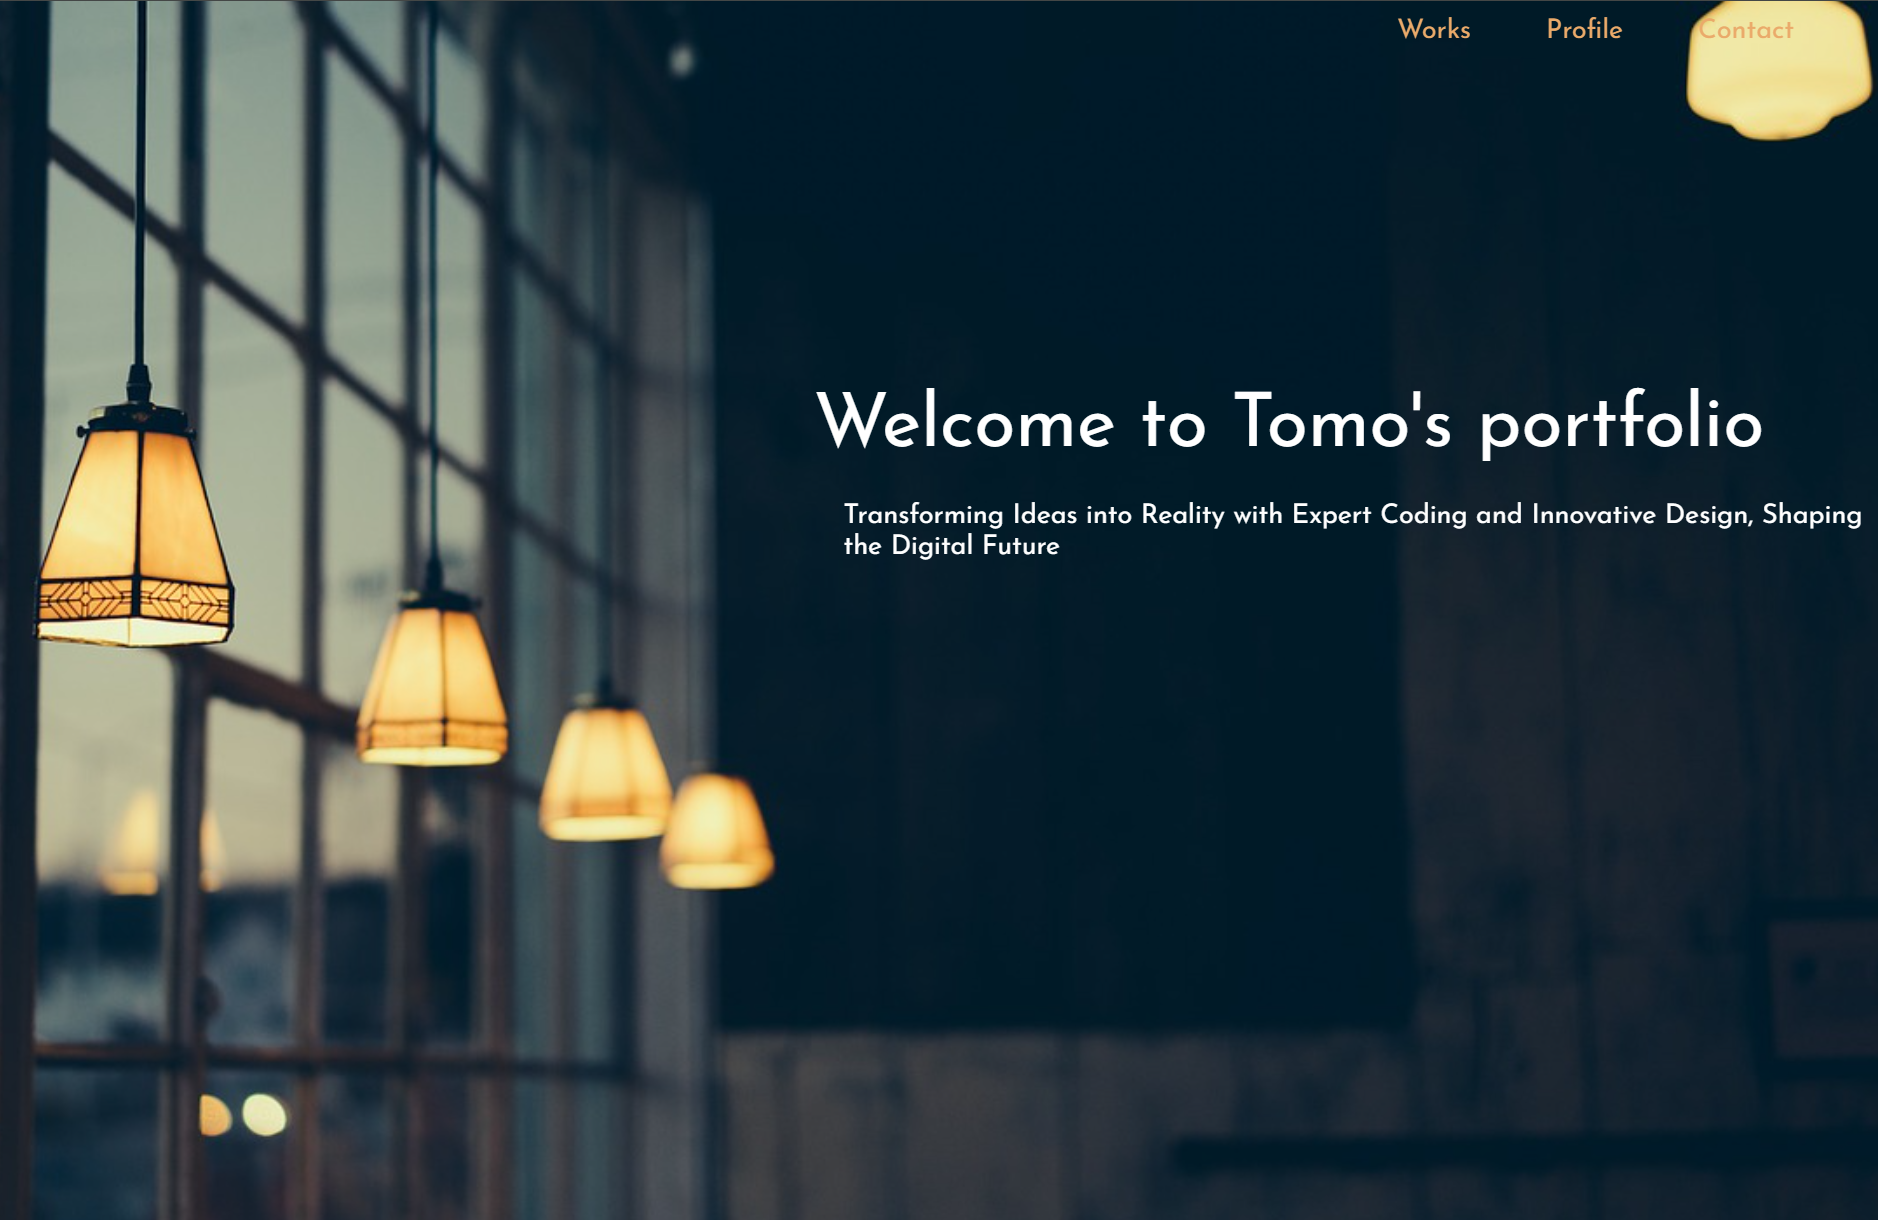
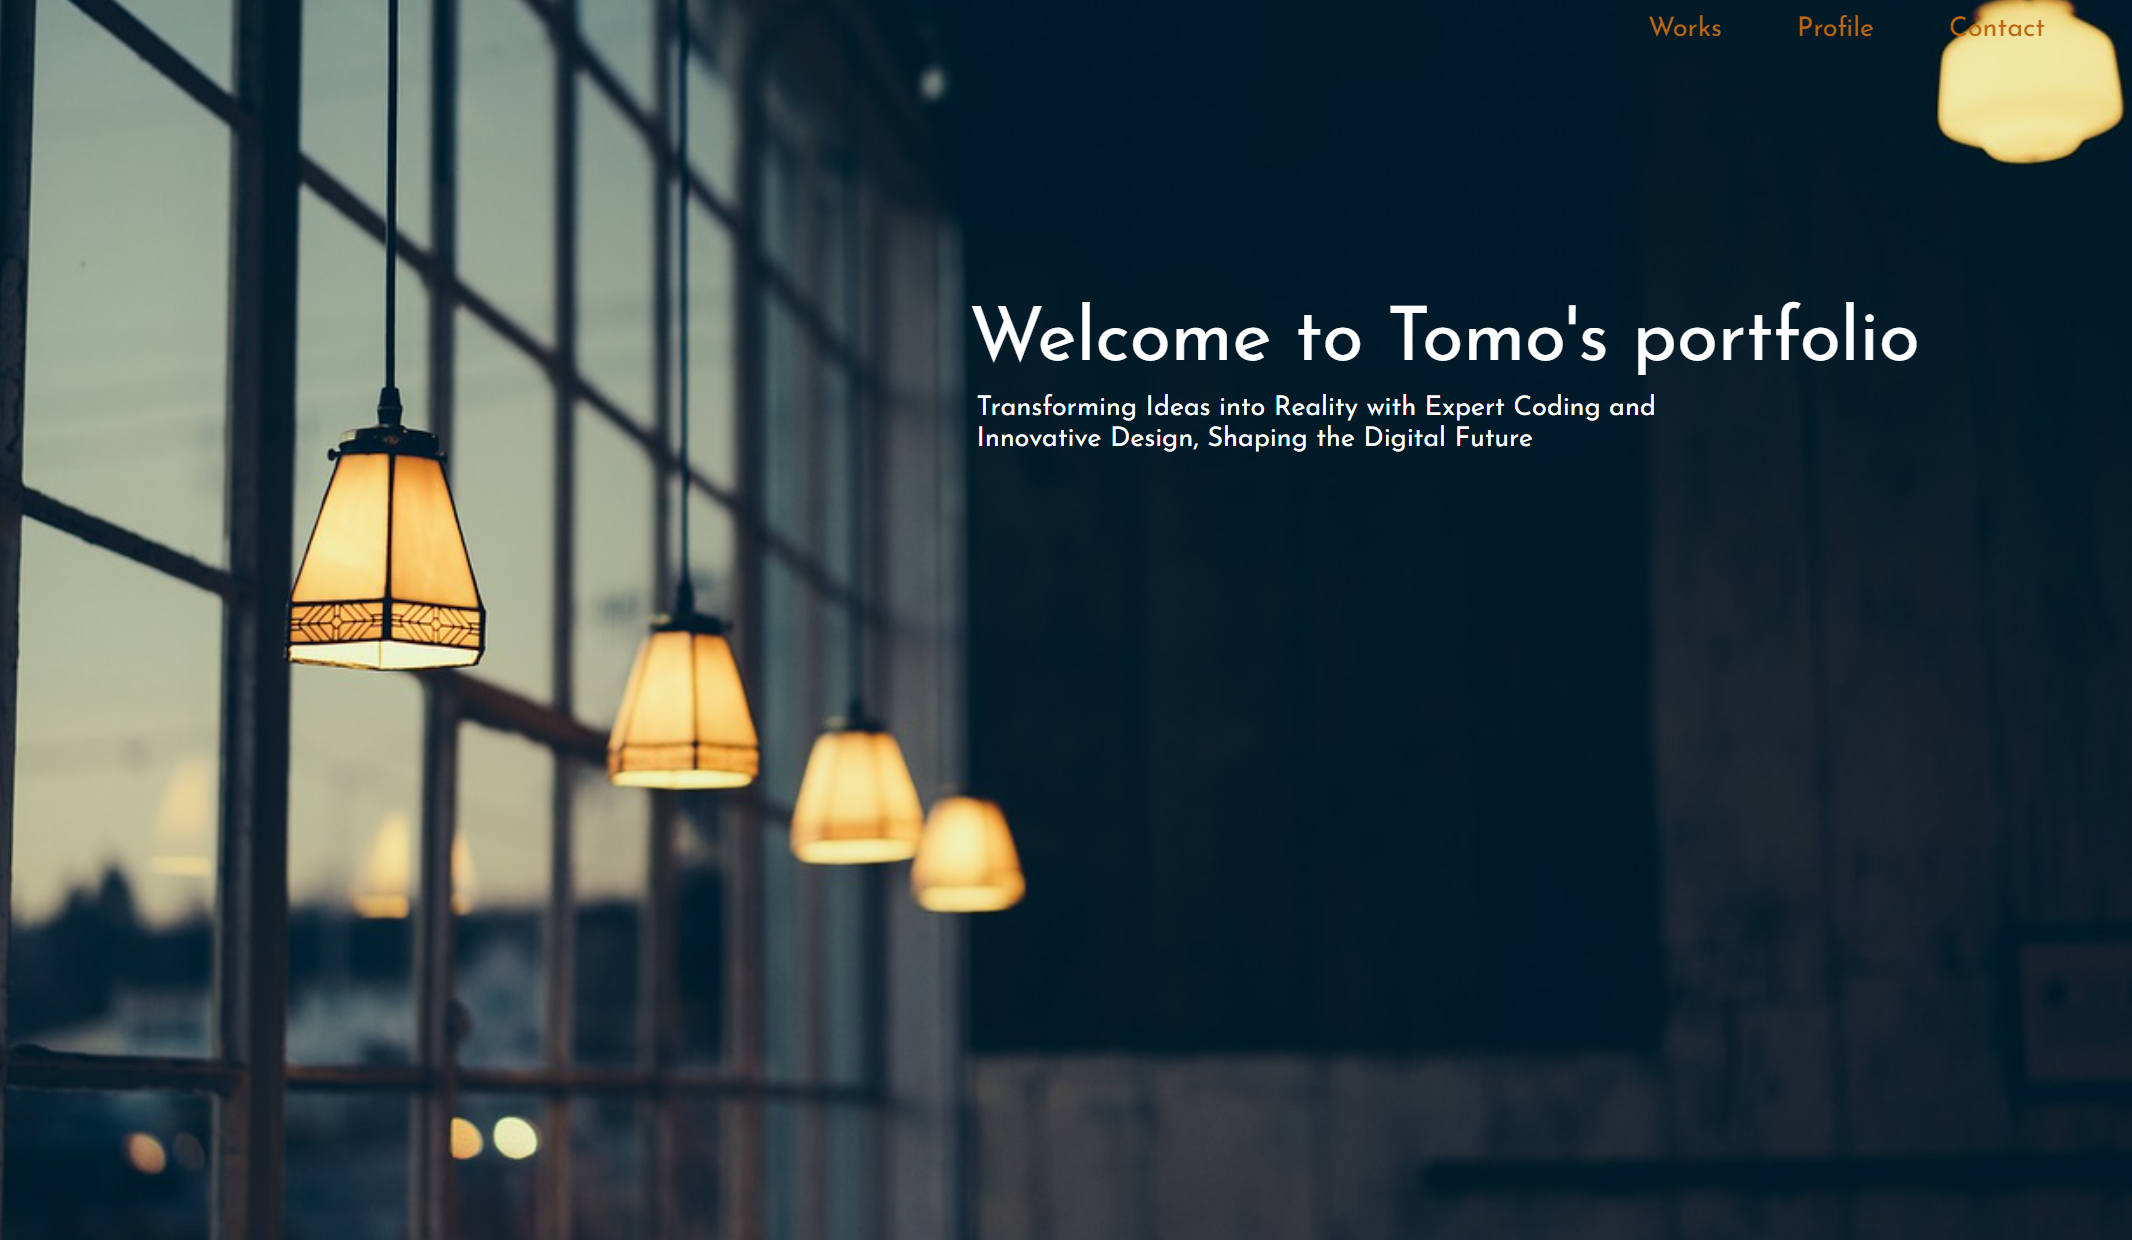
first commit

diff --git a/css/style.css b/css/style.css
@@ -10,16 +10,12 @@ body {
   font-family: "Josefin Sans", sans-serif;
 }
 
-.innerWrap {
-  width: 1240px;
-  margin: 0 auto;
-  height: 600px;
-}
-
 /* これ以下はヘッダーに関係するCSS */
 
 header .innerWrap {
   position: relative;
+  width: 100%;
+  margin: 0 auto;
   height: 834px;
 }
 
@@ -33,7 +29,7 @@ header p {
   font-family: "Josefin Sans", sans-serif;
   font-size: 18px;
   width: 60%;
-  padding: 20px;
+  padding: 5px;
   color: rgb(255, 255, 255);
 }
 
@@ -75,20 +71,23 @@ header .imagepic img {
 .navmain .Josefin li a:hover {
   text-decoration: underline;
 }
-
+.intro_text {
+  position: absolute;
+  top: 200px;
+  left: 700px;
+}
 /* これ以下はmainタグ内に関するCSS_____________________________________________________________ */
 
 main h2 {
-  /* text-align: center; */
   font-size: 60px;
-  letter-spacing: 0.05em;
+  letter-spacing: 5px;
   margin-bottom: 80px;
 }
 
 main h3 {
   text-align: center;
   font-size: 50px;
-  letter-spacing: 0.05em;
+  letter-spacing: 5px;
   margin-bottom: 80px;
   margin-top: 80px;
 }
@@ -109,10 +108,6 @@ main ul {
 .workSec .innerWrap .worksdiv {
   display: flex;
   justify-content: space-around;
-}
-
-.first {
-  width: 300px;
 }
 
 .eachportfolio {
@@ -160,10 +155,6 @@ main ul {
   height: 300px;
   margin: 20px 0 0 0;
   font-size: 18px;
-}
-
-.second {
-  width: 300px;
 }
 
 /* これ以下はmyselfsecタグ内に関するCSS_____________________________________________________________ */
@@ -240,17 +231,4 @@ main ul {
   background-color: rgb(44, 99, 216);
   color: #ffffff;
   padding: 14px 10px 20px;
-}
-
-.myself_top {
-  position: absolute;
-  top: 150px;
-  left: 60%;
-}
-
-.intro_text {
-  position: absolute;
-  top: 16rem;
-  left: 40rem;
-  width: 100%;
 }

diff --git a/index.html b/index.html
@@ -35,9 +35,9 @@
           Design, Shaping the Digital Future
         </p>
       </div>
-    </div>
-    <div class="imagepic">
-      <img src="images/bright.jpg" alt="背景画像" />
+      <div class="imagepic">
+        <img src="images/bright.jpg" alt="背景画像" />
+      </div>
     </div>
   </header>
 </body>
